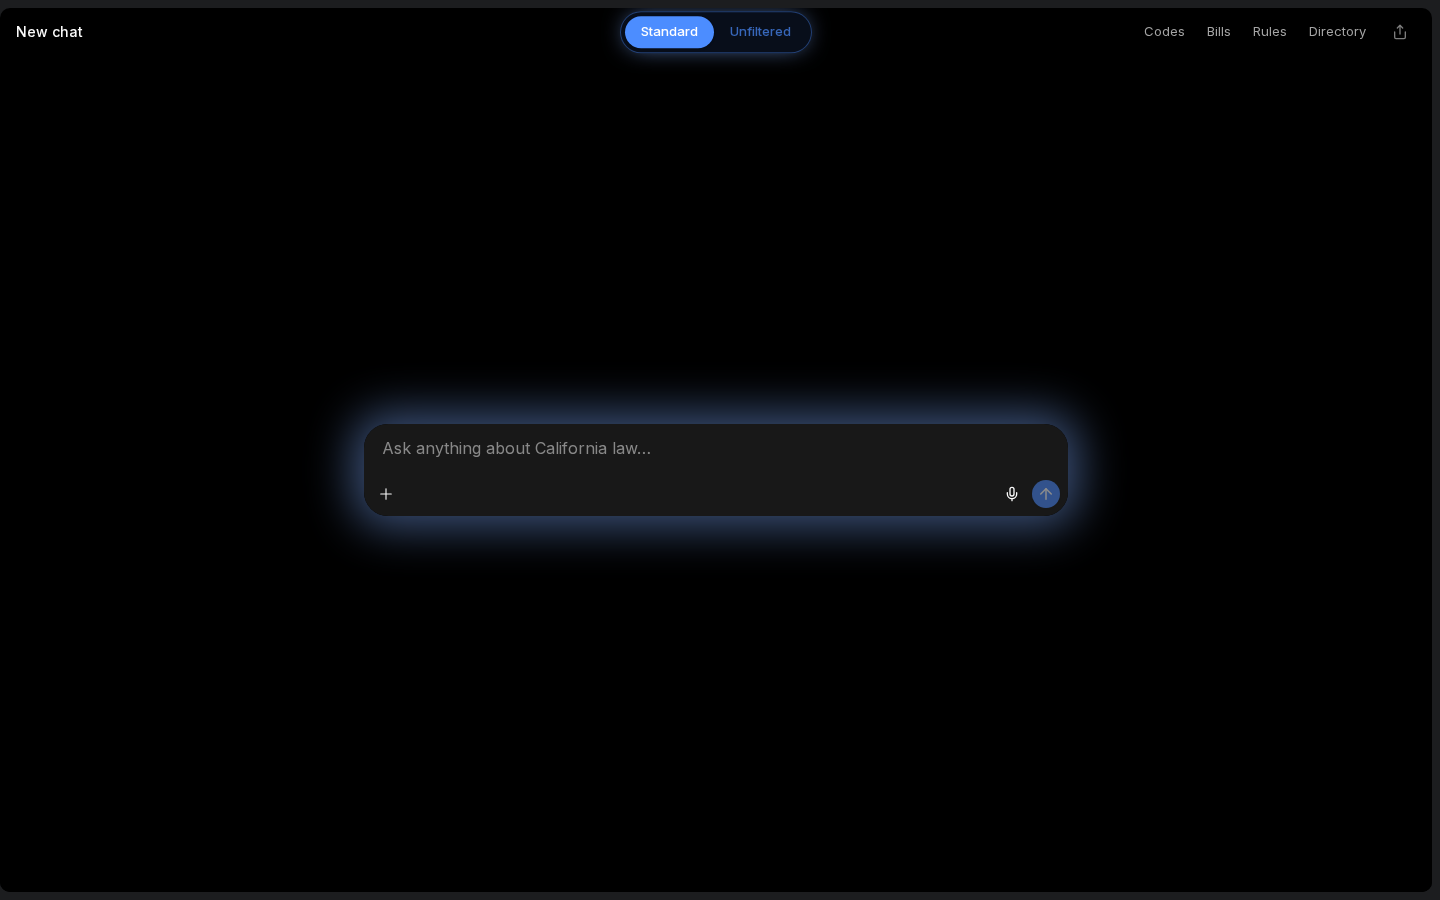
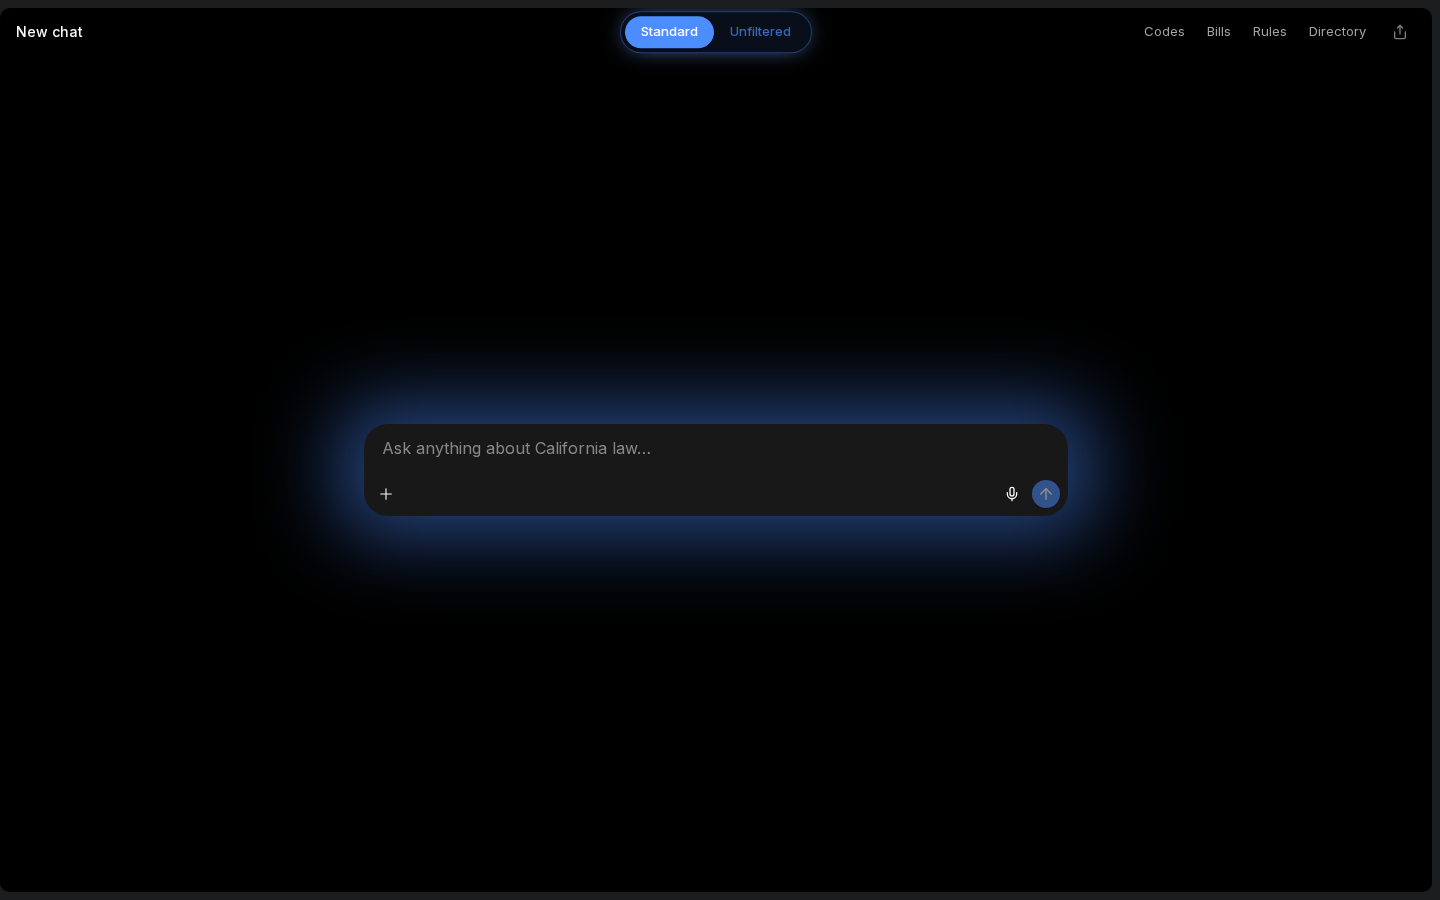
landing: even blue halo around the composer on all sides (tuned inset 26/20, blur 40)

Changed region(s): [[0.2188, 0.4044, 0.7812, 0.5911], [0.25, 0.5911, 0.75, 0.6533]]

diff --git a/components/examples/base.tsx b/components/examples/base.tsx
@@ -384,7 +384,7 @@ const Thread: FC = () => {
           <div className="relative">
             <div
               aria-hidden
-              className="pointer-events-none absolute inset-0 rounded-[1.5rem] opacity-50 shadow-[0_0_45px_12px_var(--color-primary)]"
+              className="pointer-events-none absolute -inset-x-[26px] -inset-y-5 rounded-[2rem] bg-primary/50 blur-[40px]"
             />
             <div className="relative">
               <Composer />
